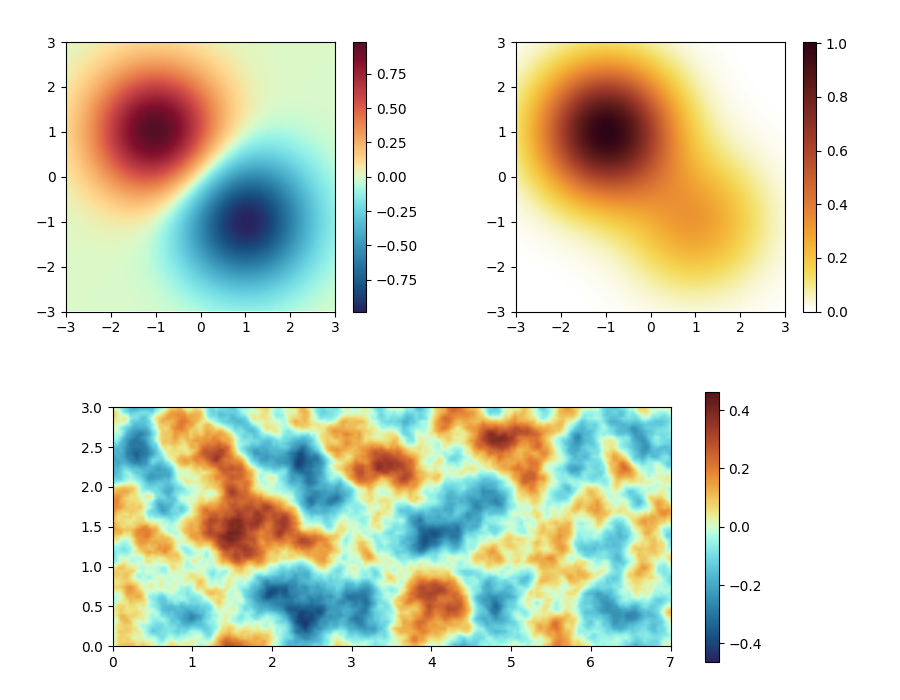
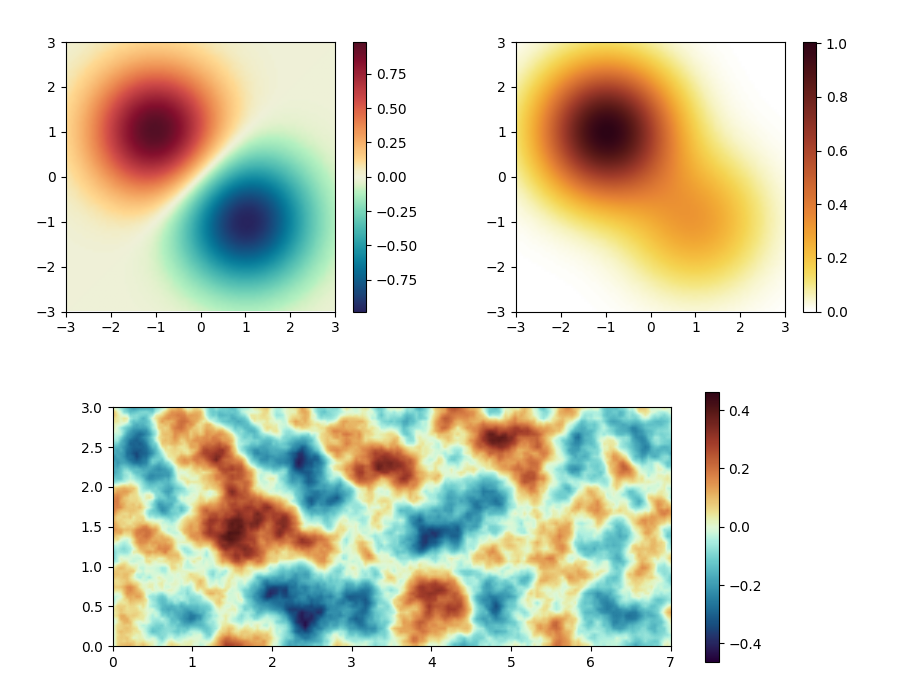
:books: Update the figure for top pages.

diff --git a/ok_palette_lab_tools/docs/generate_images.py b/ok_palette_lab_tools/docs/generate_images.py
@@ -29,16 +29,18 @@ def generate_gaussian_image(*, is_light: bool) -> None:
     if is_light:
         matplotlib.pyplot.style.use("default")
         file_name_suffix = ""
+        color_map = ok_palette_lab.matplotlib.blue_red_light
     else:
         matplotlib.pyplot.style.use("dark_background")
         file_name_suffix = "_dark"
+        color_map = ok_palette_lab.matplotlib.blue_orange_dark_wide
 
     figure, axes = matplotlib.pyplot.subplots()
     heatmap = axes.imshow(
         z,
         extent=(x.min(), x.max(), y.min(), y.max()),
         origin="lower",
-        cmap=ok_palette_lab.matplotlib.blue_red_light,
+        cmap=color_map,
         vmin=-max_abs,
         vmax=max_abs,
         interpolation="bilinear",
@@ -96,16 +98,18 @@ def generate_perlin_noise_image(*, is_light: bool) -> None:
     if is_light:
         matplotlib.pyplot.style.use("default")
         file_name_suffix = ""
+        color_map = ok_palette_lab.matplotlib.blue_brown_light_wide
     else:
         matplotlib.pyplot.style.use("dark_background")
         file_name_suffix = "_dark"
+        color_map = ok_palette_lab.matplotlib.blue_brown_light_wide
 
     figure, axes = matplotlib.pyplot.subplots()
     heatmap = axes.imshow(
         z,
         extent=(x.min(), x.max(), y.min(), y.max()),
         origin="lower",
-        cmap=ok_palette_lab.matplotlib.blue_brown_light,
+        cmap=color_map,
         vmin=-max_abs,
         vmax=max_abs,
         interpolation="bilinear",
